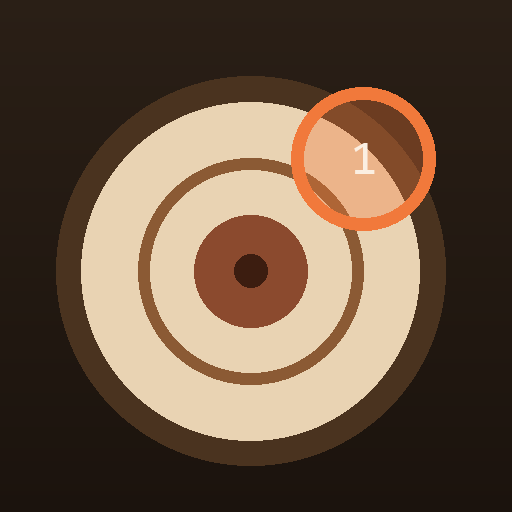
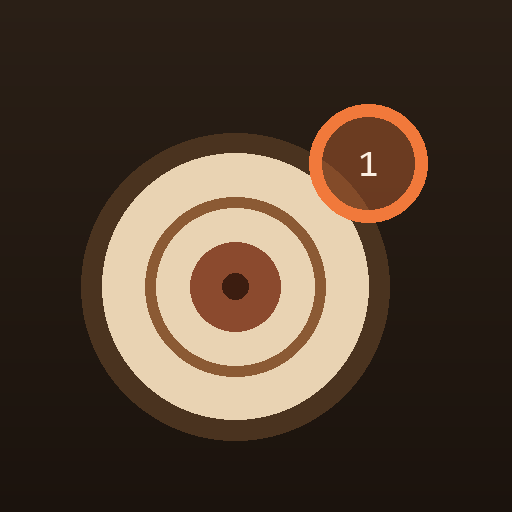
UIの配色を元に戻し、アイコンの丸太を小さくした

diff --git a/index.html b/index.html
@@ -3,21 +3,20 @@
 <head>
 <meta charset="utf-8">
 <meta name="viewport" content="width=device-width, initial-scale=1, maximum-scale=1, user-scalable=no, viewport-fit=cover">
-<meta name="theme-color" content="#FBF7EF">
+<meta name="theme-color" content="#1E1610">
 <meta name="mobile-web-app-capable" content="yes">
 <link rel="manifest" href="manifest.json">
 <link rel="icon" href="icon.png">
 <title>原木カウンター</title>
 <style>
-  /* 直射日光の下でも読めるよう、太い輪郭・高コントラストの配色にした(v17) */
   :root{
-    --bark:#FBF7EF;
-    --bark-2:#FFFFFF;
-    --sawn:#1C130B;
-    --sawn-dim:#6B5643;
-    --paint:#C1450F;
-    --paint-ink:#FFF7EE;
-    --line:#1C130B;
+    --bark:#1E1610;
+    --bark-2:#2C2117;
+    --sawn:#E9DCC4;
+    --sawn-dim:#A2937B;
+    --paint:#FF5A1F;
+    --paint-ink:#1E1610;
+    --line:#463527;
   }
   *{box-sizing:border-box;-webkit-tap-highlight-color:transparent;}
   html,body{margin:0;height:100%;overflow:hidden;background:var(--bark);color:var(--sawn);
@@ -27,7 +26,7 @@
 
   #count{
     position:fixed;top:calc(10px + env(safe-area-inset-top));left:12px;
-    background:rgba(255,253,248,.9);border:2px solid var(--line);border-radius:14px;
+    background:rgba(30,22,16,.82);border:1px solid var(--line);border-radius:14px;
     padding:6px 14px 8px;display:flex;align-items:baseline;gap:8px;backdrop-filter:blur(6px);
   }
   #count b{font-size:38px;line-height:1;font-weight:800;letter-spacing:-.02em;
@@ -35,8 +34,8 @@
   #count span{font-size:13px;color:var(--sawn-dim);letter-spacing:.08em;}
   body.erasing #count{top:calc(38px + env(safe-area-inset-top));}
   #ver{position:fixed;top:calc(12px + env(safe-area-inset-top));right:12px;
-    font-size:11px;color:var(--sawn-dim);background:rgba(255,253,248,.88);
-    border:2px solid var(--line);border-radius:8px;padding:3px 8px;letter-spacing:.05em;}
+    font-size:11px;color:var(--sawn-dim);background:rgba(30,22,16,.8);
+    border:1px solid var(--line);border-radius:8px;padding:3px 8px;letter-spacing:.05em;}
 
   #empty{position:fixed;inset:0;display:flex;flex-direction:column;
     align-items:center;justify-content:center;gap:18px;padding:32px;text-align:center;}
@@ -47,31 +46,31 @@
 
   #bar{position:fixed;left:0;right:0;bottom:0;display:flex;flex-wrap:wrap;gap:6px;
     padding:8px 8px calc(8px + env(safe-area-inset-bottom));
-    background:linear-gradient(to top,rgba(255,253,248,.97),rgba(255,253,248,.55));}
-  #bar button{flex:1 1 21%;background:var(--bark-2);color:var(--sawn);border:2px solid var(--line);
+    background:linear-gradient(to top,rgba(30,22,16,.96),rgba(30,22,16,.6));}
+  #bar button{flex:1 1 21%;background:var(--bark-2);color:var(--sawn);border:1px solid var(--line);
     border-radius:12px;padding:9px 2px 8px;font-size:11px;line-height:1.3;font-weight:600;}
-  #bar button:active{background:#EFE6D6;}
+  #bar button:active{background:#3A2C1F;}
   #bar button i{display:block;font-size:18px;font-style:normal;margin-bottom:1px;}
 
   #savePanel{position:fixed;left:8px;right:8px;bottom:150px;
-    background:rgba(255,255,255,.97);border:2px solid var(--line);border-radius:16px;
+    background:rgba(38,30,22,.97);border:1px solid var(--line);border-radius:16px;
     padding:14px 16px 16px;backdrop-filter:blur(8px);}
   #saveMsg{font-size:12px;line-height:1.6;color:var(--sawn-dim);margin-bottom:12px;}
   #autoPanel{position:fixed;left:8px;right:8px;bottom:150px;
-    background:rgba(255,255,255,.97);border:2px solid var(--line);border-radius:16px;
+    background:rgba(38,30,22,.97);border:1px solid var(--line);border-radius:16px;
     padding:14px 16px 16px;backdrop-filter:blur(8px);}
   #autoMsg{font-size:13px;line-height:1.6;color:var(--sawn);margin-bottom:12px;}
   #autoMsg b{color:var(--paint);font-size:17px;}
   .act{flex:1;background:var(--paint);color:var(--paint-ink);border:none;border-radius:10px;
     padding:12px 4px;font-size:13px;font-weight:700;}
-  .act.ghost{background:var(--bark-2);color:var(--sawn-dim);border:2px solid var(--line);flex:0 0 80px;}
+  .act.ghost{background:var(--bark-2);color:var(--sawn-dim);border:1px solid var(--line);flex:0 0 80px;}
   .sub{flex:1;background:none;color:var(--sawn-dim);border:1px dashed var(--line);
     border-radius:10px;padding:9px 4px;font-size:11.5px;}
-  .sub:active{color:#0B7A99;border-color:#0B7A99;}
-  .act.ghost2{background:var(--bark-2);color:#0B7A99;border:2px solid #0B7A99;}
+  .sub:active{color:#00C6FF;border-color:#2A5A6B;}
+  .act.ghost2{background:var(--bark-2);color:#00C6FF;border:1px solid #2A5A6B;}
   #guessVal{width:46px;text-align:right;font-size:12px;color:var(--sawn-dim);}
   #confBtns{flex:1;display:flex;gap:6px;}
-  .confBtn{flex:1;background:var(--bark-2);color:var(--sawn-dim);border:2px solid var(--line);
+  .confBtn{flex:1;background:var(--bark-2);color:var(--sawn-dim);border:1px solid var(--line);
     border-radius:9px;padding:9px 2px;font-size:12.5px;font-weight:600;font-variant-numeric:tabular-nums;}
   .confBtn.on{background:var(--paint);color:var(--paint-ink);border-color:var(--paint);}
   #bar button.on{border-color:var(--paint);color:var(--paint);}
@@ -87,24 +86,24 @@
 
   /* 見た目パネル */
   #panel{position:fixed;left:8px;right:8px;bottom:calc(84px + env(safe-area-inset-bottom));
-    background:rgba(255,255,255,.97);border:2px solid var(--line);border-radius:16px;
+    background:rgba(38,30,22,.97);border:1px solid var(--line);border-radius:16px;
     padding:14px 16px 16px;backdrop-filter:blur(8px);}
   .row{display:flex;align-items:center;gap:12px;}
   .row+.row{margin-top:14px;}
   .lab{font-size:12px;color:var(--sawn-dim);width:52px;flex:none;letter-spacing:.06em;}
   #swatches{display:flex;gap:10px;flex:1;}
   .sw{width:34px;height:34px;border-radius:50%;border:2px solid transparent;flex:none;padding:0;}
-  .sw[aria-pressed="true"]{border-color:var(--sawn);box-shadow:0 0 0 3px rgba(28,19,11,.16);}
+  .sw[aria-pressed="true"]{border-color:var(--sawn);box-shadow:0 0 0 3px rgba(233,220,196,.18);}
   input[type=range]{flex:1;accent-color:var(--paint);height:34px;}
   #preview{width:44px;flex:none;display:flex;align-items:center;justify-content:center;}
-  #togNum,#togSnd{background:var(--bark-2);color:var(--sawn-dim);border:2px solid var(--line);
+  #togNum,#togSnd{background:var(--bark-2);color:var(--sawn-dim);border:1px solid var(--line);
     border-radius:999px;padding:8px 16px;font-size:12px;font-weight:600;}
   #togNum.on,#togSnd.on{color:var(--paint);border-color:var(--paint);}
 
   #hint{position:fixed;left:0;right:0;bottom:88px;text-align:center;font-size:12px;
     color:var(--sawn-dim);pointer-events:none;transition:opacity .4s;}
   #busy{position:fixed;inset:0;display:flex;align-items:center;justify-content:center;
-    background:rgba(30,22,16,.7);font-size:14px;color:#D8C9B4;}
+    background:rgba(30,22,16,.7);font-size:14px;color:var(--sawn-dim);}
   input[type=file]{display:none;}
   .hide{display:none !important;}
   :focus-visible{outline:2px solid var(--paint);outline-offset:2px;}
@@ -204,7 +203,7 @@
 <script>
 /* 画面の隅に出す版の表示。sw.js の CACHE の番号と必ず揃えること。
    ここを直し忘れると、中身が新しくても古い版に見えてしまう。 */
-const APP_VER='v17';
+const APP_VER='v18';
 document.getElementById('ver').textContent=APP_VER+' AI';
 
 const cv=document.getElementById('cv'), ctx=cv.getContext('2d');

diff --git a/sw.js b/sw.js
@@ -4,7 +4,7 @@
    ・外部サイト(AIライブラリのCDNなど)には一切手を出さない。
      横取りすると読み込みに失敗することがあるため、ブラウザに任せる。
    ・失敗した応答は保存しない。 */
-const CACHE = 'genboku-v17';
+const CACHE = 'genboku-v18';
 const FILES = ['./', './index.html', './manifest.json', './icon.png'];
 
 self.addEventListener('install', e => {
